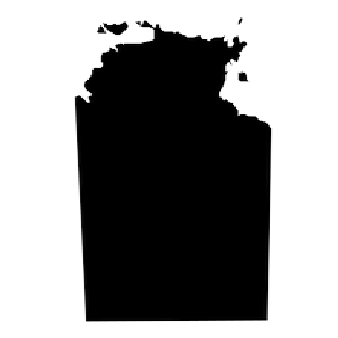
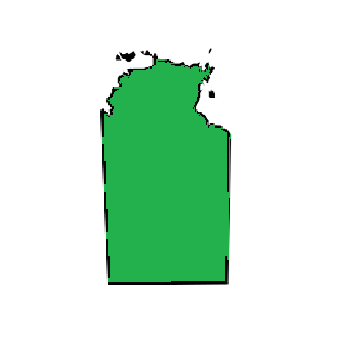
Design for card is done

diff --git a/frontend/src/pages/seaTurtleGame/LandingPage.js b/frontend/src/pages/seaTurtleGame/LandingPage.js
@@ -1,11 +1,29 @@
 import React, { useState } from "react";
 import { Carousel } from "react-responsive-carousel";
 import "react-responsive-carousel/lib/styles/carousel.min.css";
-import cardBgrdImg from "../../assets/img/minigame/minigameDemo.png";
+import VICImage from "../../assets/img/minigame/VIC.png";
+import NSWImage from "../../assets/img/minigame/NSW.png";
+import QLDImage from "../../assets/img/minigame/QLD.png";
+import WAImage from "../../assets/img/minigame/WA.png";
+import SAImage from "../../assets/img/minigame/SA.png";
+import TASImage from "../../assets/img/minigame/TAS.png";
+import NTImage from "../../assets/img/minigame/NT.png";
+import plasticImage from "../../assets/img/minigame/plastic.png";
+
+const stateImages = {
+  VIC: VICImage,
+  NSW: NSWImage,
+  QLD: QLDImage,
+  WA: WAImage,
+  SA: SAImage,
+  TAS: TASImage,
+  NT: NTImage,
+};
 
 const dummyData = [
   {
     state: "VIC",
+    name: "VICTORIA",
     difficulty: 4,
     pollutionSeverity: 200,
     marineLaws: 2,
@@ -13,6 +31,7 @@ const dummyData = [
   },
   {
     state: "NSW",
+    name: "NEW SOUTH WAVES",
     difficulty: 3,
     pollutionSeverity: 150,
     marineLaws: 3,
@@ -20,6 +39,7 @@ const dummyData = [
   },
   {
     state: "QLD",
+    name: "QUEENSLAND",
     difficulty: 2,
     pollutionSeverity: 100,
     marineLaws: 4,
@@ -27,6 +47,7 @@ const dummyData = [
   },
   {
     state: "WA",
+    name: "WESTERN AUSTRALIA",
     difficulty: 4,
     pollutionSeverity: 180,
     marineLaws: 2,
@@ -34,6 +55,7 @@ const dummyData = [
   },
   {
     state: "SA",
+    name: "SOUTH AUSTRALIA",
     difficulty: 3,
     pollutionSeverity: 130,
     marineLaws: 3,
@@ -41,6 +63,7 @@ const dummyData = [
   },
   {
     state: "TAS",
+    name: "TASMANIA",
     difficulty: 2,
     pollutionSeverity: 90,
     marineLaws: 5,
@@ -48,6 +71,7 @@ const dummyData = [
   },
   {
     state: "NT",
+    name: "NORTHERN TERRITORY",
     difficulty: 1,
     pollutionSeverity: 70,
     marineLaws: 5,
@@ -56,7 +80,7 @@ const dummyData = [
 ];
 
 const LandingPage = ({ onStartGame }) => {
-  const [selectedDifficulty, setSelectedDifficulty] = useState("EASY");
+  const [selectedDifficulty, setSelectedDifficulty] = useState("ALL");
   const [currentIndex, setCurrentIndex] = useState(0); // Track the current index of the carousel
 
   // Handler when difficulty changes
@@ -70,7 +94,7 @@ const LandingPage = ({ onStartGame }) => {
       <div className="content">
         <h2>Welcome to our informative sea-turtle role-play game!</h2>
         <p>Welcome to our informative sea-turtle role-play game!</p>
-        <p className="subtitle">Choose your difficulty level:</p>
+        <p className="subtitle">Difficulty level:</p>
 
         <div className="difficulty-buttons">
           {["ALL", "EASY", "MEDIUM", "HARD"].map((difficulty) => (
@@ -134,27 +158,42 @@ const LandingPage = ({ onStartGame }) => {
               )
               .map((data, index) => (
                 <div key={index} className="state-card">
-                  <h4>{data.state} State Insights</h4>
-                  <div className="card-content">
+                  <h4>{data.name}</h4>
+                  <div className="card-content ">
                     <div className="state-shape">
-                      <span>{data.state}</span>
+                      <img
+                        style={{ height: "120px", width: "50%" }}
+                        src={stateImages[data.state]} // Dynamically set the source based on the state
+                        alt={data.state} // Alt text as the state name
+                      />{" "}
+                      {/* <span>{data.state}</span> */}
                     </div>
-                    <p className="difficulty-rating">
-                      Difficulty rating: {data.difficulty} stars
+                    <p
+                      className="difficulty-rating"
+                      style={{ fontWeight: "bold" }}
+                    >
+                      Difficulty Rating:
                     </p>
+                    {Array.from({ length: data.difficulty }).map((_, idx) => (
+                      <img
+                        key={idx}
+                        src={plasticImage}
+                        alt="plastic bottle"
+                        style={{ width: "30px", margin: "10px 5px" }}
+                      />
+                    ))}
                     <p className="description-insight">
-                      <strong>Pollution severity: </strong>Severe (
-                      {data.pollutionSeverity})
+                      <strong>Pollution Severity: </strong>
+                      {data.pollutionSeverity}, <strong>Marine Laws: </strong>{" "}
+                      {data.marineLaws}
                     </p>
-                    <p>
-                      <strong>Marine laws: </strong>
-                      {data.marineLaws === 2
+
+                    {/* {data.marineLaws === 2
                         ? "Low"
                         : data.marineLaws === 3
                         ? "Medium"
-                        : "High"}{" "}
-                      ({data.marineLaws})
-                    </p>
+                        : "High"}{" "} */}
+
                     <button
                       className="start-game-button"
                       onClick={() => onStartGame(selectedDifficulty)}

diff --git a/frontend/src/assets/scss/bluevisionary/_examples.scss b/frontend/src/assets/scss/bluevisionary/_examples.scss
@@ -793,7 +793,7 @@
   align-items: center;
   min-height: 100vh;
   background: linear-gradient(45deg, #eff9ff, #9cd8fd);
-  padding: 4rem 2rem;
+  padding: 2rem 2rem;
   text-align: left;
   padding-top: 100px;
 
@@ -812,23 +812,22 @@
     .subtitle {
       font-size: 1.5rem;
       color: #3f4447;
-      margin-bottom: 2rem;
       font-weight: bold;
     }
 
     .difficulty-buttons {
       display: flex;
       justify-content: flex-start;
-      margin-bottom: 2rem;
+      margin-bottom: 1rem;
       gap: 1rem;
     }
 
     .option-button {
-      font-size: 1.2rem;
+      font-size: 1rem;
       color: #ffffff;
       background-color: #2776c5;
       border: none;
-      padding: 0.75rem 2rem;
+      padding: 0.75rem 3rem;
       text-align: center;
       font-weight: bold;
       border: 3px solid #2776c5;
@@ -918,14 +917,13 @@
 }
 
 .states-card {
-  margin-bottom: 3rem;
   .carousel {
     position: relative;
     width: 80%; // Adjust carousel width to show part of next/previous cards
     margin: 0 auto;
 
     .carousel .slider-wrapper {
-      overflow: visible !important; // Show part of the next/previous cards
+      overflow: visible;
     }
 
     .state-card {
@@ -952,10 +950,10 @@
       }
 
       .state-shape {
-        width: 80px;
-        height: 80px;
+        width: 50%;
+        height: 120px;
         background-color: #e1eaf3;
-        border-radius: 50%;
+        border-radius: 8px;
         display: flex;
         justify-content: center;
         align-items: center;
@@ -1042,7 +1040,7 @@
       transition: background-color 0.3s ease;
 
       &.selected {
-        background-color: #003366;
+        background-color: #a8caed;
       }
     }
 
